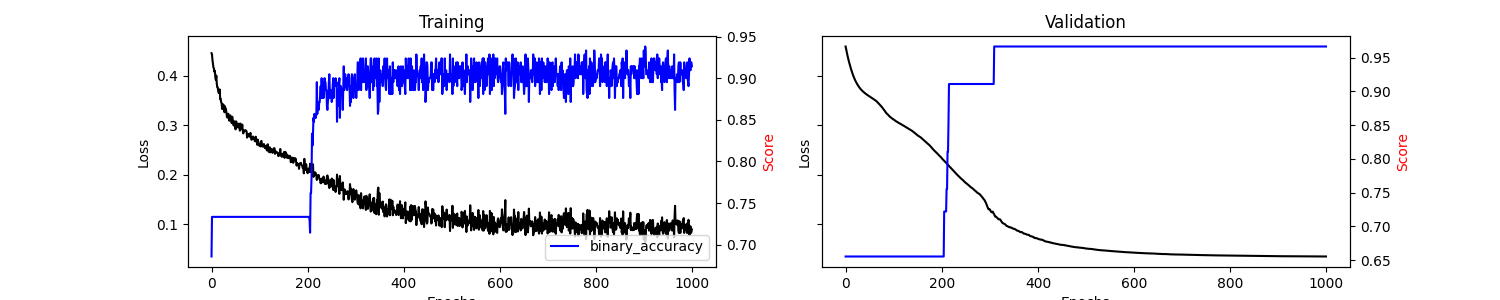
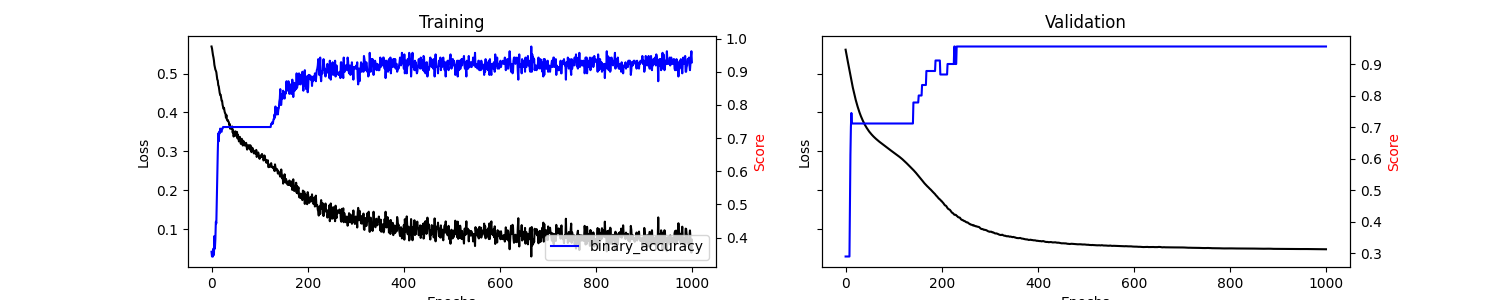
update

diff --git a/gen_training_data.py b/gen_training_data.py
@@ -12,6 +12,7 @@ import matplotlib.cm as cmap
 import shap
 #import random
 from random import random, sample, seed
+import numpy as np
 
 def readData(datafiles={}):
     """
@@ -62,7 +63,6 @@ def fakeSingleCells(column, numberOfCells=10):
     fsc.index = column.index
     return fsc
 
-
 def makeFSCdataset(df, numberOfCells):
     """
     Apply fakeSingleCells over all samples in the given dataset
@@ -84,7 +84,6 @@ def makeFSCdataset(df, numberOfCells):
             alldata = pd.concat([alldata, fsc], axis=1).fillna(0)
         alldata.columns = [str(i) for i in range(0, len(alldata.columns))]
     return alldata
-
 
 def experimentPartOneWrapper():
     concatDF = readData(
@@ -140,7 +139,6 @@ def experimentPartOneWrapper():
     #targetdata = pd.concat([targetdata, makeFSCdataset(splitDF["target"], numberOfCells=5)])
     #print(targetdata)
     return concatDF, splitDF, inputdata, targetdata
-
 
 def explainer_shap(model, X_names, X_instance, X_train=None, task="classification", top=10):
     '''
@@ -392,7 +390,6 @@ def xorTutorial():
     
     print ("Complete")
 
-
 def three_vars_gateDeepNN(i):
     seed(i)
     import numpy as np
@@ -494,7 +491,7 @@ def three_vars_gateDeepNN(i):
     test_predictions = model.predict(X1.iloc[testSamples]) #argmax(model.predict(X1.iloc[testSamples]),axis=-1).flatten()
     test_predictions = np.round(test_predictions)
     plt.axes(aspect='equal')
-    plt.title("Proportion true predictions: " + str(round(sum([1 if i == j else 0 for i, j in zip(test_predictions,answer)])/len(answer)),2))
+    plt.title("Proportion true predictions: " + str(round(sum([1 if i == j else 0 for i, j in zip(test_predictions,answer)])/len(answer), 2)))
     #plt.scatter(Y1.iloc[testSamples], test_predictions)
     plt.hist([int(int(i) == int(j)) for i,j in zip(answer, test_predictions)])
     plt.xlabel('True Values')
@@ -631,6 +628,124 @@ def five_vars_gateDeepNN(i):
     print(len(answer))
     print(sum([1 if i == j else 0 for i, j in zip(test_predictions,answer)])/len(answer))
 
+def ten_vars_gateDeepNN(i):
+    seed(i)
+    import numpy as np
+    # input X vector
+    cols = [chr(x) for x in range(97, 123)]
+    cols = cols[0:10]
+    data = {}
+    for letter in cols:
+        print(letter)
+        randomData = np.hstack((np.ones(150), np.zeros(150)))
+        np.random.shuffle(randomData)
+        data[letter] = randomData
+        X1 = pd.DataFrame(data)
+    print(X1.columns)
+    z = [ int(int(a1) & int(b1) | int(c1) | int(d1) & int(e1) | (not int(f1)) | int (g1) | int(h1) | int(i1) & int(j1) ) for a1, b1, c1, d1, e1, f1, g1, h1, i1, j1 in zip(X1['a'], X1['b'], X1['c'], X1['d'], X1['e'], X1['f'], X1['g'], X1['h'], X1['i'], X1['j'])] # B & A | D
+            
+    print(X1)
+    # output Y vector
+    #Y1 = pd.DataFrame(np.repeat(np.array([[0], [1], [1], [0]]), 100, axis =  0))
+    Y1 = pd.DataFrame({'Z': z})
+    print(Y1)
+    model = models.Sequential(name="DeepNN", layers=[
+    ### hidden layer 1
+    layers.Dense(name="h1", input_dim=10,
+                units=int(3), 
+                activation='tanh'),
+    layers.Dropout(name="drop1", rate=0.2),
+    ### hidden layer 2
+    layers.Dense(name="h2", units=int(2), 
+                activation='sigmoid'),
+    layers.Dropout(name="drop2", rate=0.2),
+    ### layer output
+    layers.Dense(name="output", units=1, activation='sigmoid')
+    ])
+    model.summary()
+
+    # compile the neural network
+    model.compile(
+        optimizer="adam",
+        loss="mean_absolute_error",
+        metrics=[
+            #tensorflow.keras.metrics.AUC(),
+            #tensorflow.keras.metrics.FalsePositives(),
+            #tensorflow.keras.metrics.FalseNegatives(),
+            tensorflow.keras.metrics.BinaryAccuracy(),
+            #R2,
+            #tensorflow.keras.metrics.Recall(),
+        ],
+    )
+    n_samples = len(X1)
+    trainingSamples = sample(range(0, n_samples), floor(3*n_samples/4))
+    testSamples = list(set(range(0,n_samples)).difference(set(trainingSamples)))
+    X = X1#.iloc[trainingSamples]
+    y = Y1#.iloc[trainingSamples]
+    training = model.fit(
+        x=X, y=y, batch_size=10, epochs=1000, shuffle=False, verbose=0, validation_split=0.3
+    )
+
+    # plot
+    metrics = [
+        k for k in training.history.keys() if ("loss" not in k) and ("val" not in k)
+    ]
+    fig, ax = plt.subplots(nrows=1, ncols=2, sharey=True, figsize=(15, 3))
+
+    ## training
+    ax[0].set(title="Training")
+    ax11 = ax[0].twinx()
+    ax[0].plot(training.history["loss"], color="black")
+    ax[0].set_xlabel("Epochs")
+    ax[0].set_ylabel("Loss", color="black")
+    colors = ["blue", "red", "orange"]
+    i = 0
+    for metric in metrics:
+        color = colors[i]
+        i = i + 1
+        ax11.plot(training.history[metric], label=metric, color = color)
+    ax11.set_ylabel("Score", color="red")
+    ax11.legend()
+
+    ## validation
+    i = 0
+    ax[1].set(title="Validation")
+    ax22 = ax[1].twinx()
+    ax[1].plot(training.history["val_loss"], color="black")
+    ax[1].set_xlabel("Epochs")
+    ax[1].set_ylabel("Loss", color="black")
+    for metric in metrics:
+        ax22.plot(training.history["val_" + metric], label=metric, color=colors[i])
+        i = i + 1
+    ax22.set_ylabel("Score", color="red")
+    ax11.legend()
+    plt.savefig("10_variable_gate_"+str(i)+".png")
+
+    plt.close()
+
+    ## explainer_shap(model, upstream, X, X_train=X, task="regression", top=10)
+    answer = Y1.iloc[testSamples]
+    answer = answer.iloc[:,0]
+    answer = answer.to_list()
+    test_predictions = model.predict(X1.iloc[testSamples]) #argmax(model.predict(X1.iloc[testSamples]),axis=-1).flatten()
+    test_predictions = np.round(test_predictions)
+    #plt.axes(aspect='equal')
+    plt.title("Proportion true predictions: " + str(round(sum([1 if i == j else 0 for i, j in zip(test_predictions,answer)])/len(answer),2)))
+    #plt.scatter(Y1.iloc[testSamples], test_predictions)
+    plt.hist([int(int(i) == int(j)) for i,j in zip(answer, test_predictions)])
+    plt.xlabel('True Values')
+    plt.ylabel('Predictions')
+    lims = [0, 1]
+    plt.xlim(lims)
+    #plt.ylim(lims)
+    plt.savefig("10_variable_gate_predictions_"+str(i)+".png")
+
+    print(test_predictions)
+    #print(testTarget.iloc[testSamples])
+    #print(len(testTarget.iloc[testSamples]))
+    print(answer)
+    print(len(answer))
+    print(sum([1 if i == j else 0 for i, j in zip(test_predictions,answer)])/len(answer))
 
 if __name__ == "__main__":
     # prepare data
@@ -640,5 +755,6 @@ if __name__ == "__main__":
     #experimentPartTwoWrapper()
     for i in range(0,3):
         print(i)
+        ten_vars_gateDeepNN(i)
         five_vars_gateDeepNN(i)
         three_vars_gateDeepNN(i)
